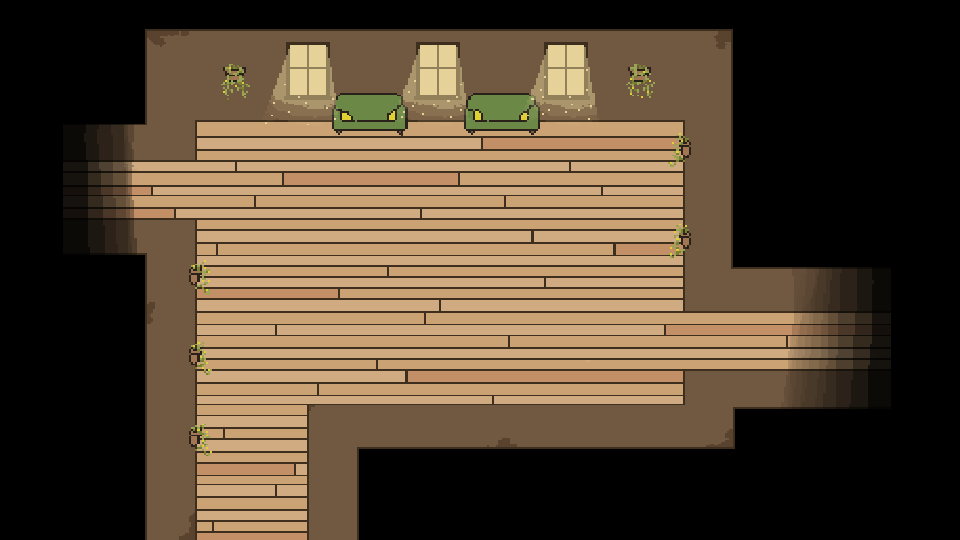
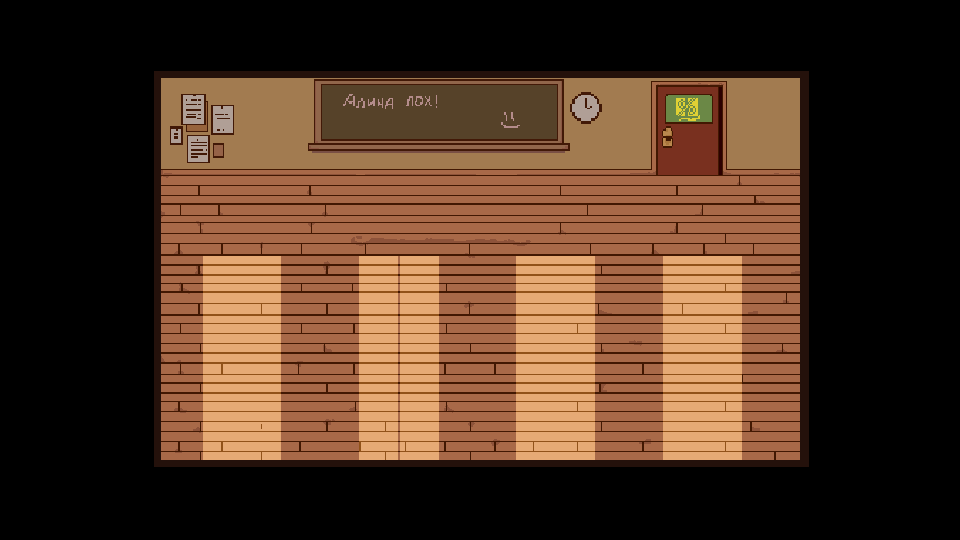
кпец

diff --git a/src/config/constants.ts b/src/config/constants.ts
@@ -14,6 +14,40 @@ export const INTERACTION_RADIUS = 48;
 /** Задержка между появлением символов при "печати" текста диалога (мс). */
 export const DIALOGUE_TYPING_SPEED_MS = 30;
 
+// ---------------------------------------------------------------------------
+// Геометрия окна диалога (DialogueScene).
+// ---------------------------------------------------------------------------
+
+/**
+ * Высота окна диалога у нижнего края экрана (px). Рассчитана на 5 строк
+ * реплики и 2 варианта выбора (максимум в текущих ink-историях).
+ * Если добавляешь больше вариантов или длинные реплики — увеличь её,
+ * иначе кнопки уйдут за нижний край (предупреждение выводится в консоль).
+ */
+export const DIALOGUE_BOX_HEIGHT = 230;
+
+/** Внутренний горизонтальный отступ текста от краёв окна диалога (px). */
+export const DIALOGUE_BOX_PADDING = 24;
+
+/** Смещение строки с именем NPC от верхней границы окна (px). */
+export const DIALOGUE_NAME_OFFSET_Y = 12;
+
+/** Смещение текста реплики от верхней границы окна (px). Ниже имени с запасом. */
+export const DIALOGUE_BODY_OFFSET_Y = 38;
+
+/** Вертикальный шаг между вариантами выбора (px). */
+export const DIALOGUE_CHOICE_LINE_HEIGHT = 30;
+
+/**
+ * Зазор между нижним краем реплики и первым вариантом выбора (px).
+ * Кнопки привязаны к реальной высоте текста, а не к фиксированной координате,
+ * иначе длинная реплика снова наедет на них.
+ */
+export const DIALOGUE_CHOICES_GAP_Y = 16;
+
+/** Отступ подсказки "ПРОБЕЛ ▸" от нижнего края экрана (px). */
+export const DIALOGUE_PROMPT_MARGIN_Y = 16;
+
 /** Базовая ширина игрового канваса в пикселях. */
 export const GAME_WIDTH = 960;
 
